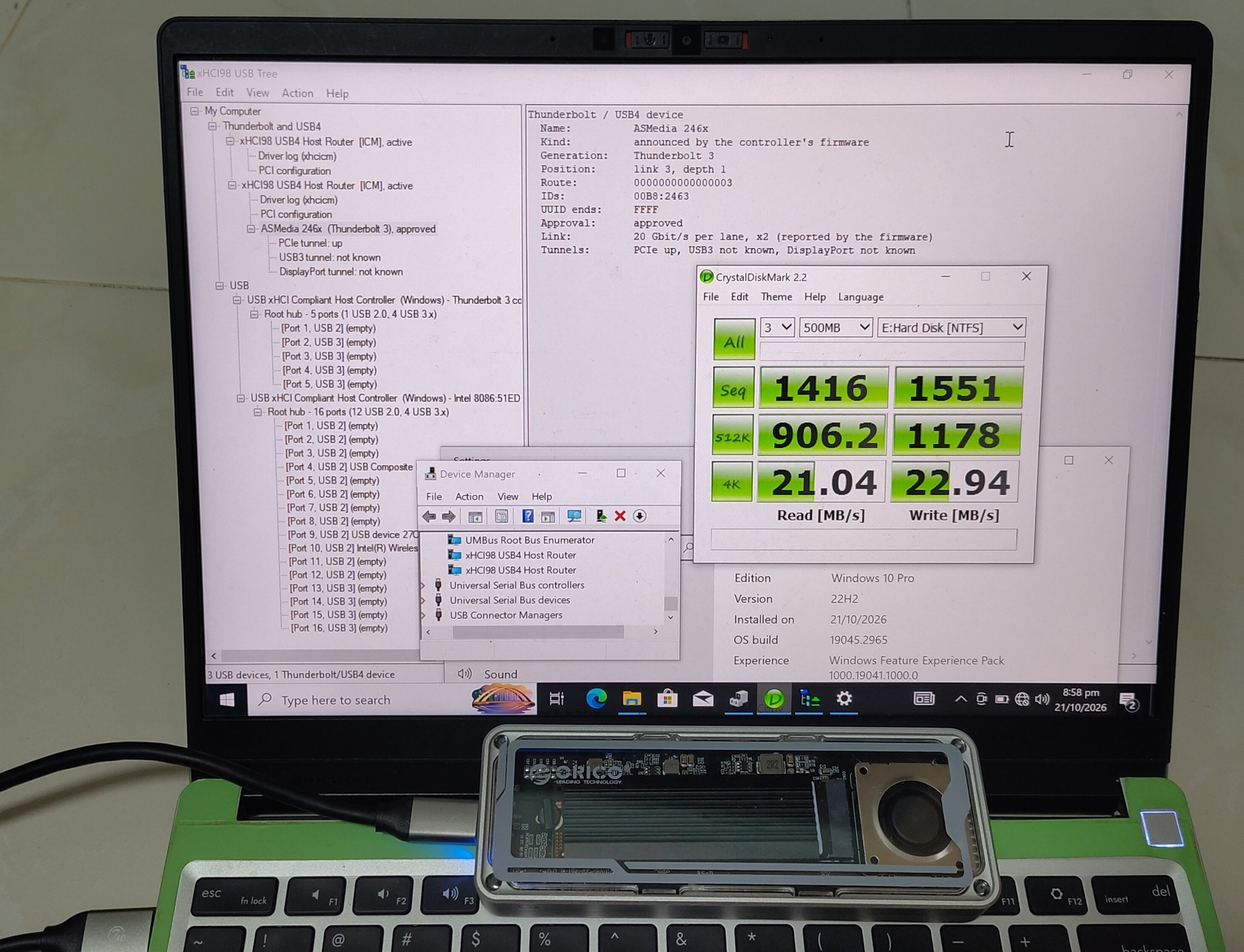
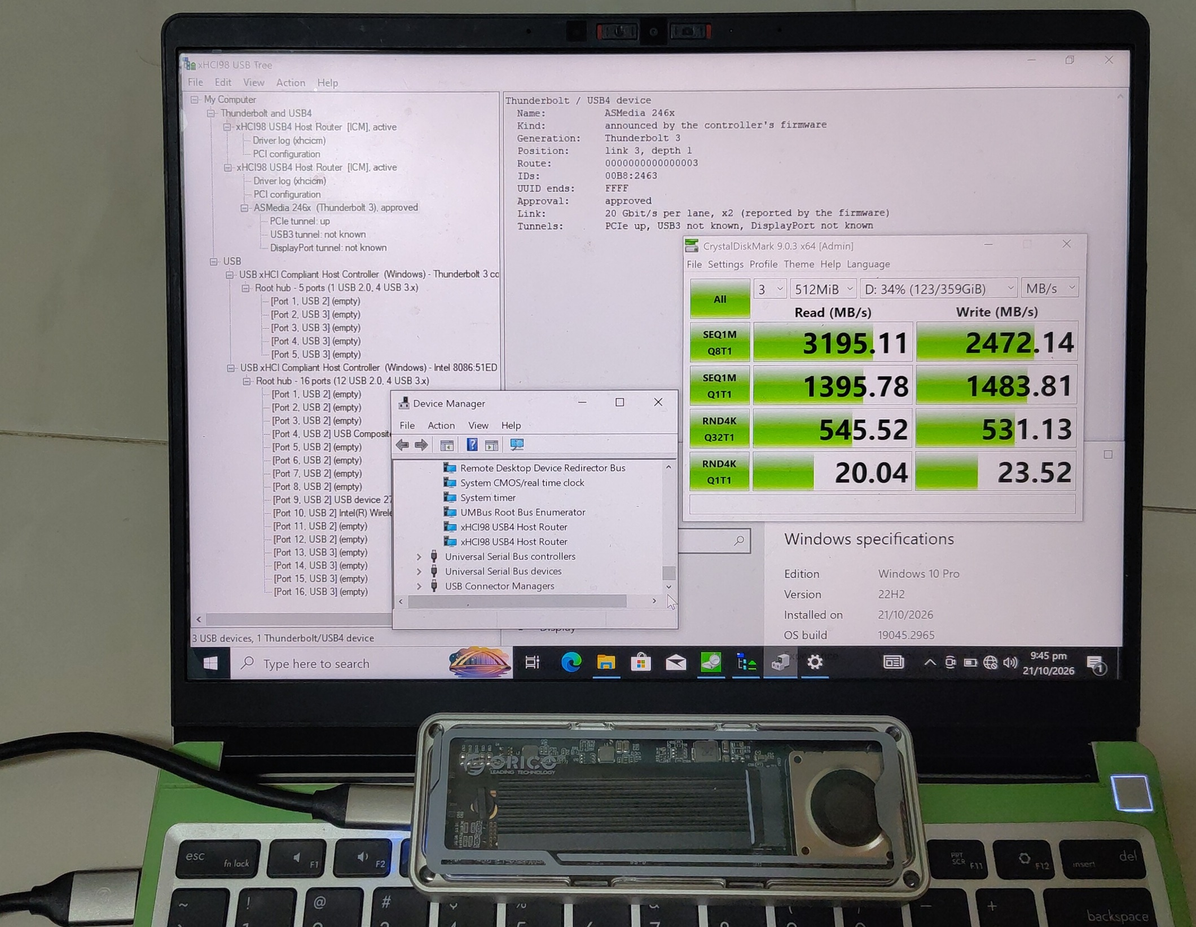
updated image

diff --git a/2026/10/xhci98-usb3-usb4/index.html b/2026/10/xhci98-usb3-usb4/index.html
@@ -580,7 +580,8 @@ As with the previous post, most of the words in this blog post are written by me
 <p>Windows 10 Pro 22H2 x64 on my Framework Laptop 13 whose Intel Alder Lake controller is a real USB4 host.</p>
 <p>Windows 10 has no USB4 support of its own so both of its USB4 host routers show up in Device Manager as &ldquo;xHCI98 USB4 Host Router&rdquo; given by my driver.</p>
 <p>The firmware runs its own connection manager here so <code>xhcicm.sys</code> acts as its client and approves the ORICO enclosure which the xHCI98 USB Tree shows on a 40 Gbit/s USB4 link (20 Gbit/s per lane, x2) with its PCIe tunnel up.</p>
-<p>The &ldquo;Thunderbolt 3&rdquo; generation it shows is a display bug in this build, the link really is USB4. CrystalDiskMark gets about 1416 MB/s sequential read and 1551 MB/s write on the NVMe drive inside.</p>
+<p>The &ldquo;Thunderbolt 3&rdquo; generation it shows is a display bug in this build, the link really is USB4.</p>
+<p>CrystalDiskMark 9 gets about 3195 MB/s sequential read and 2472 MB/s write on the NVMe drive.</p>
 <h2 id="building-with-ai">Building with AI</h2>
 <p>As with my previous projects, this was built with heavy AI assistance:</p>
 <ul>
